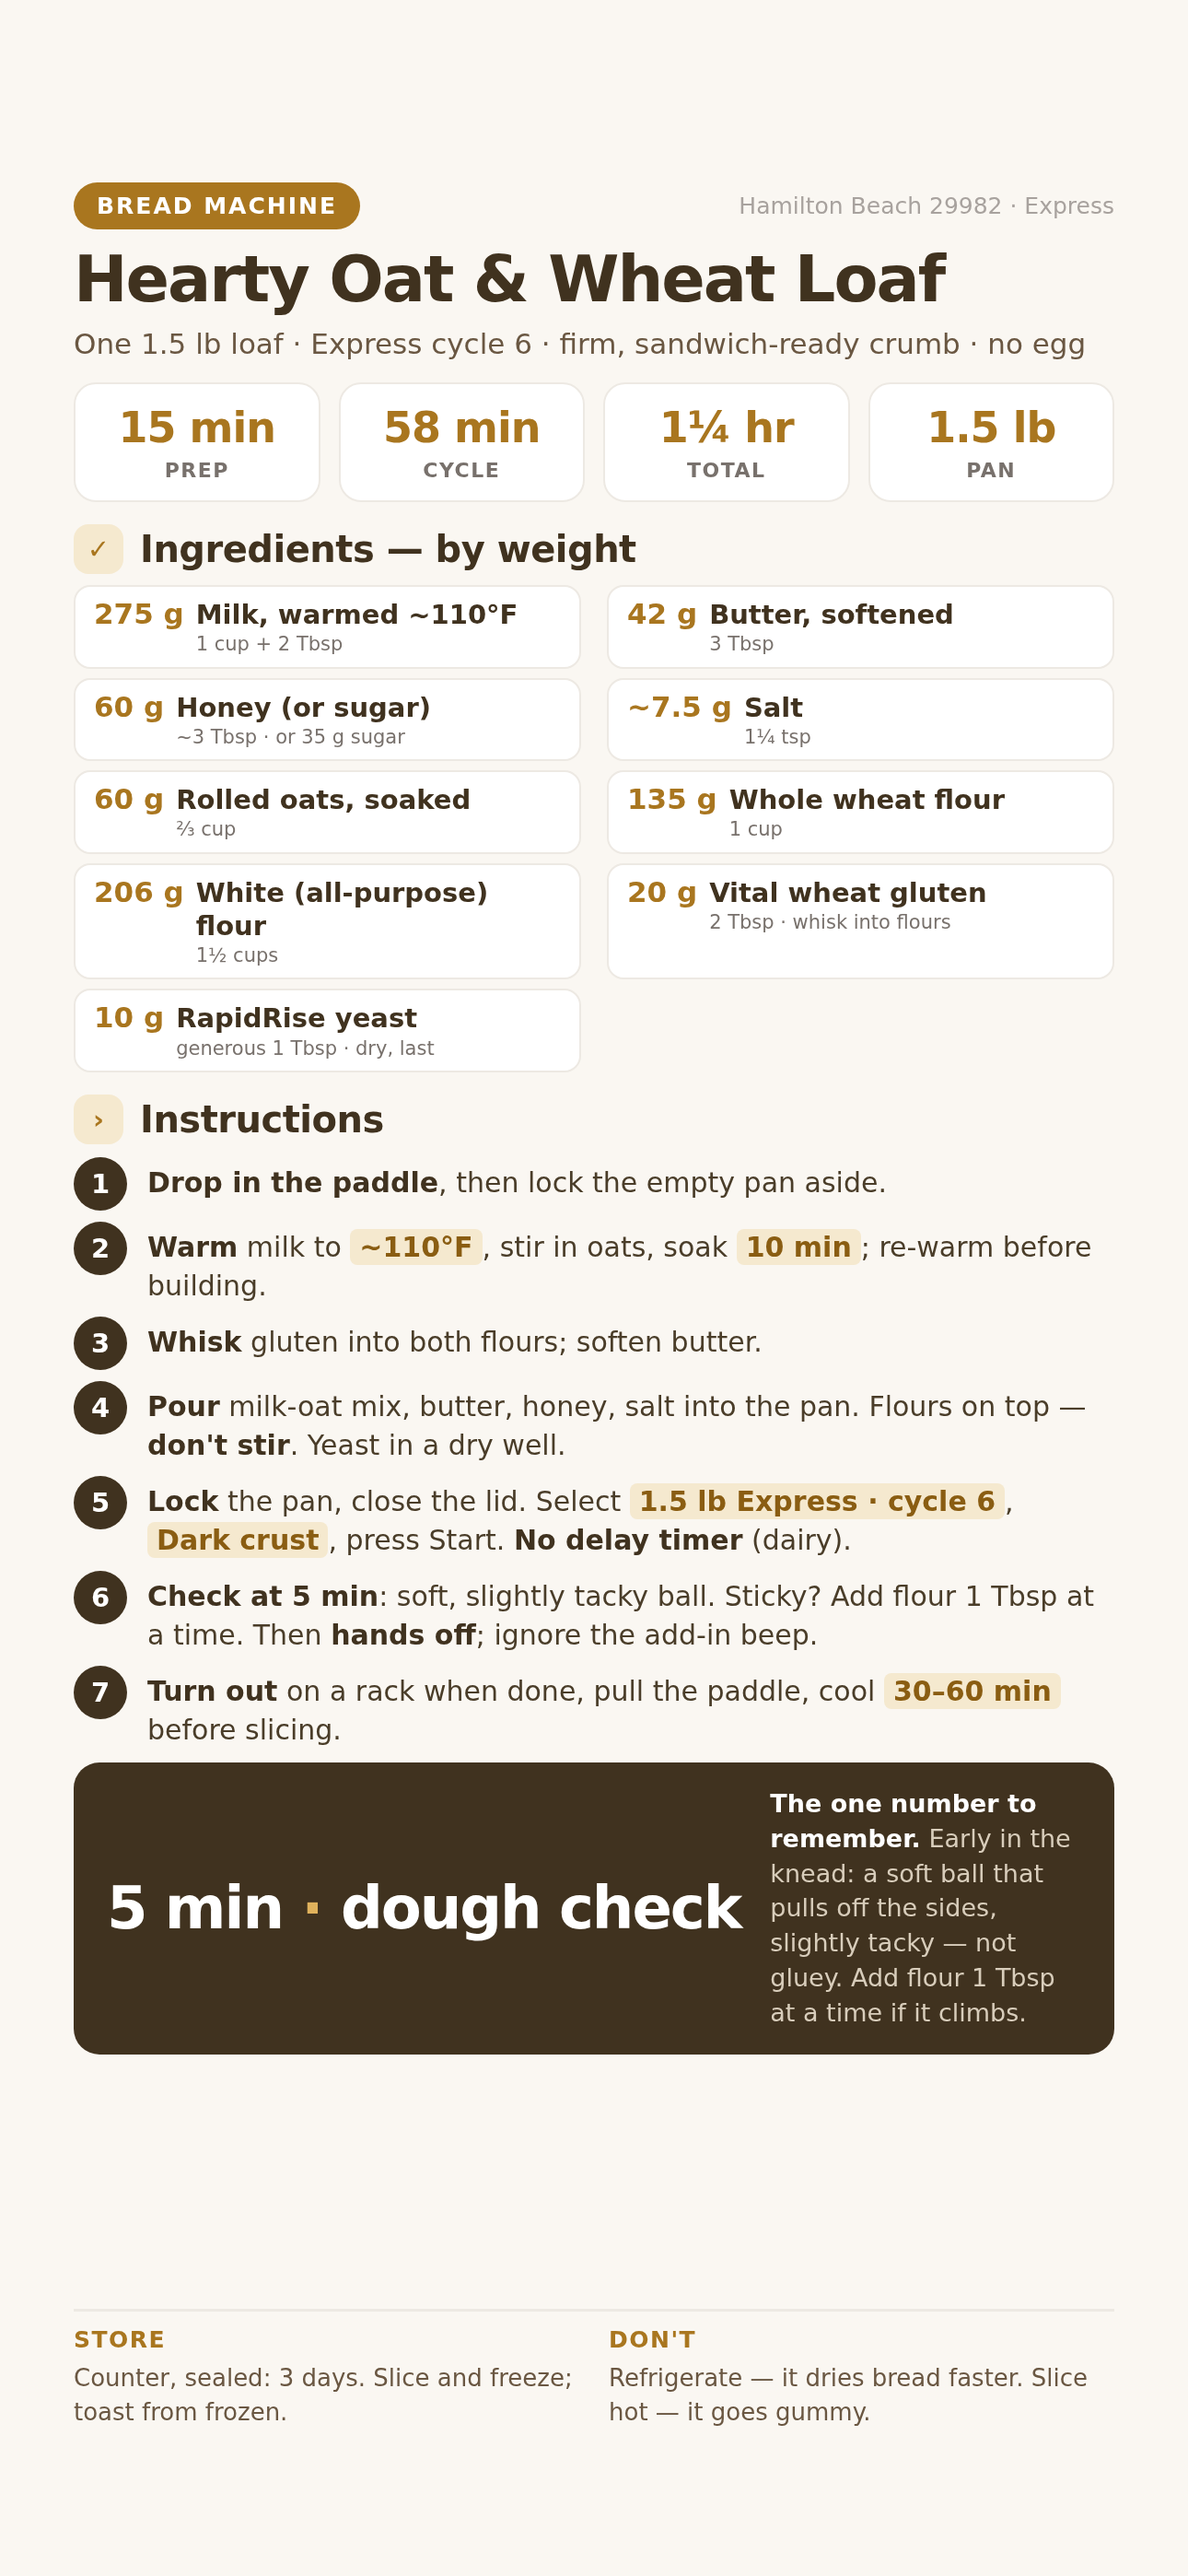
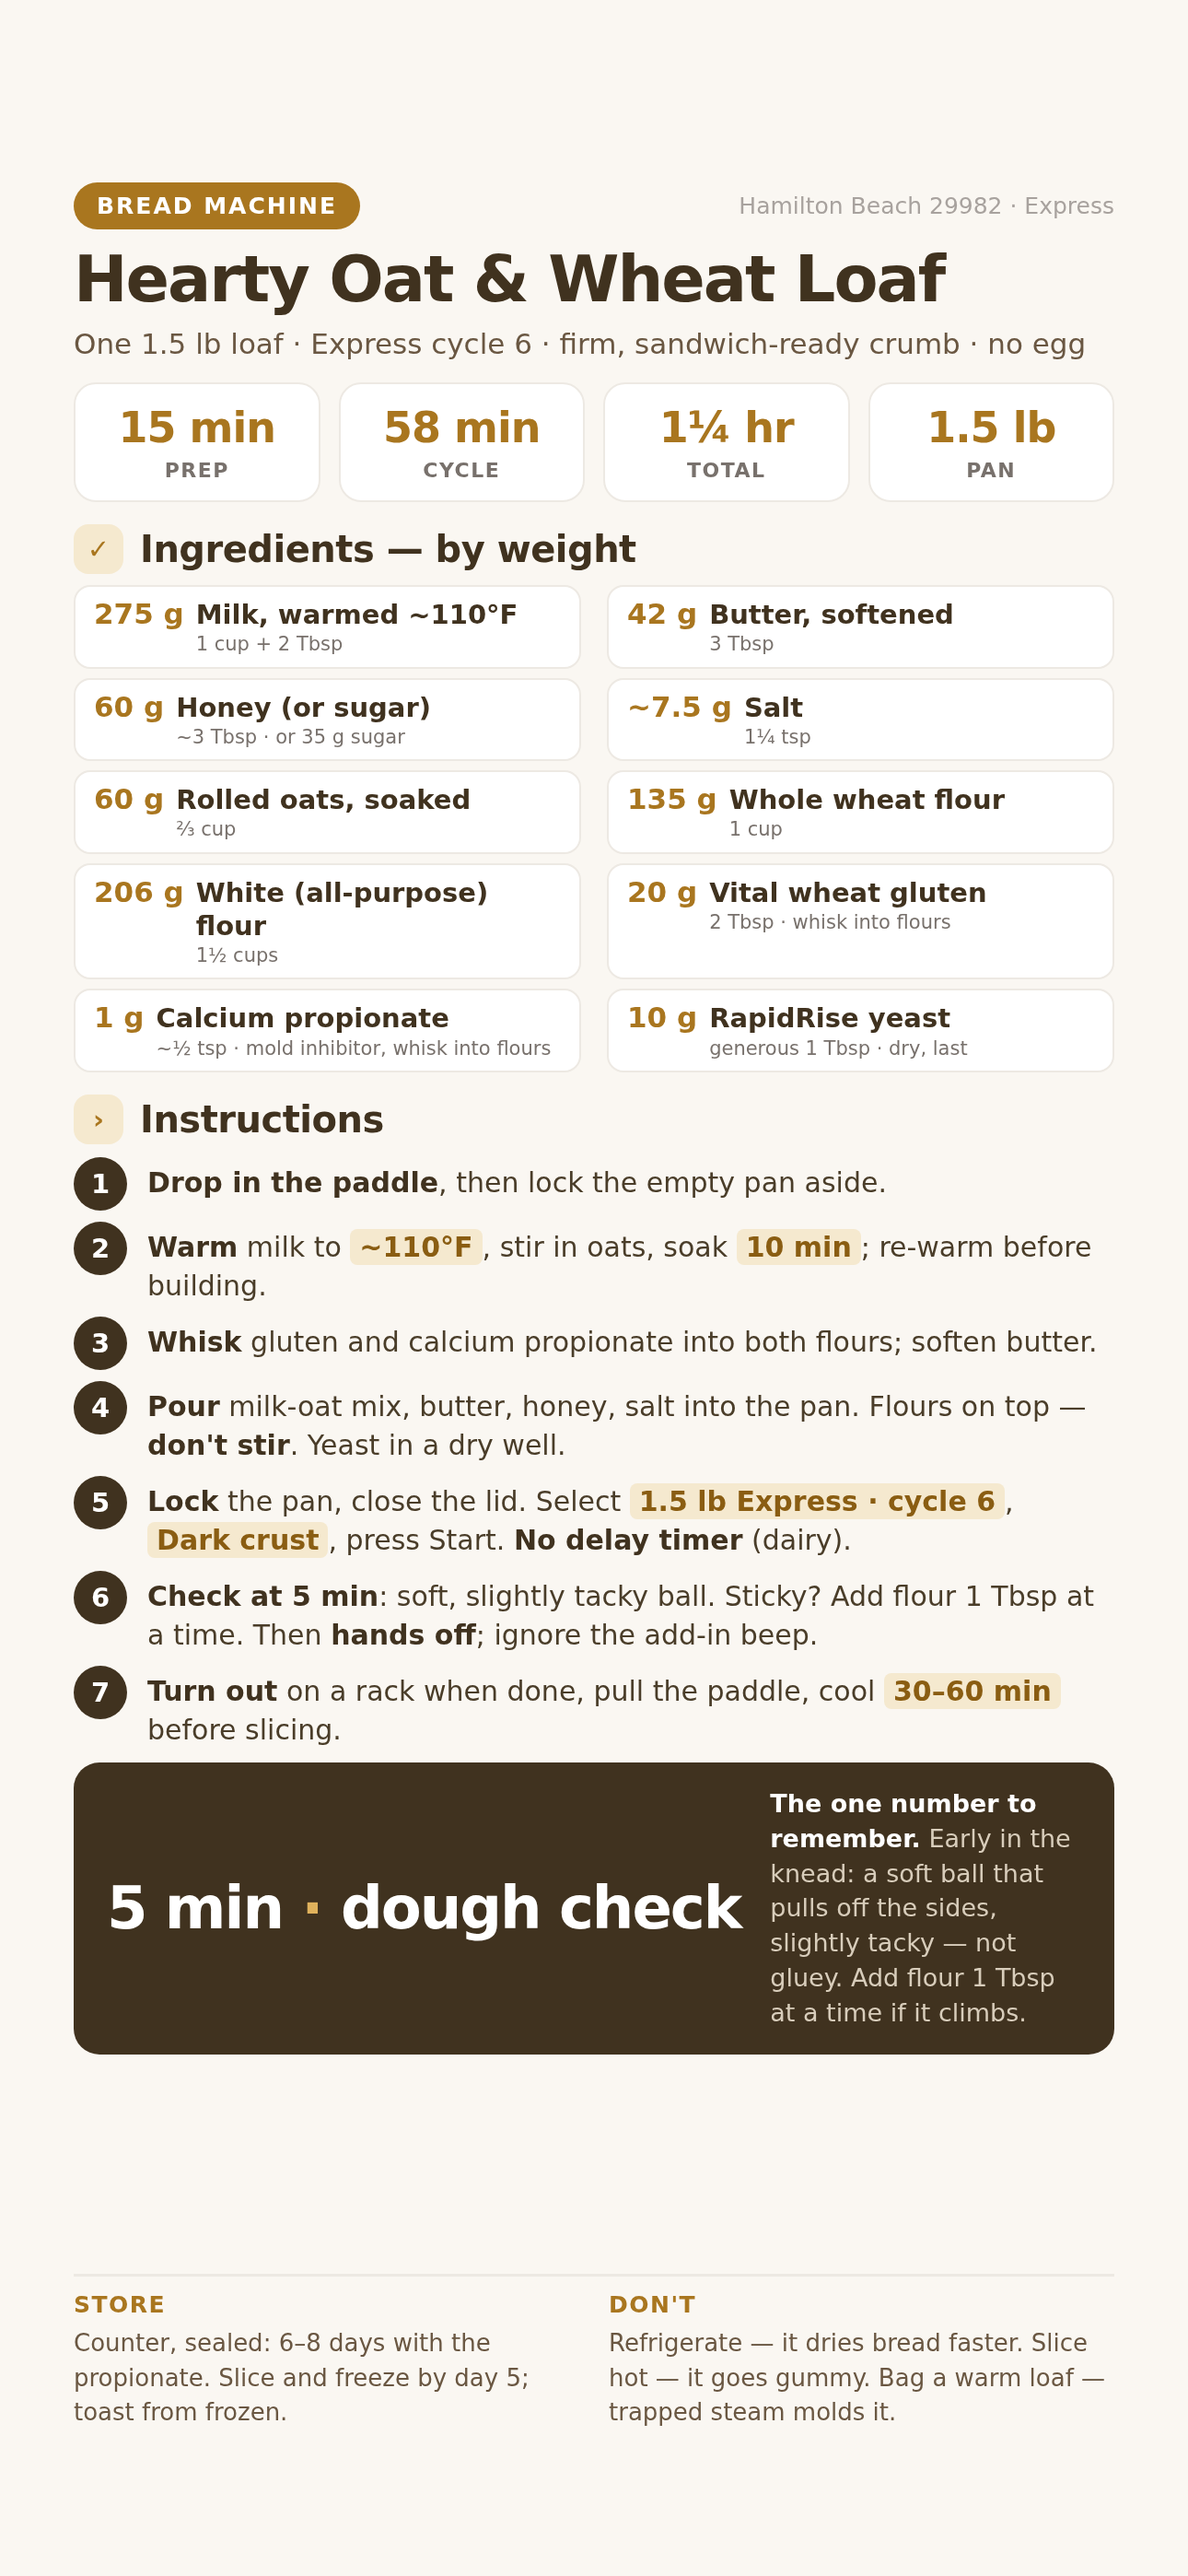
Hearty Oat & Wheat: add 1 g calcium propionate, update storage guidance

diff --git a/cookbook/hearty-oat-wheat-loaf/index.html b/cookbook/hearty-oat-wheat-loaf/index.html
@@ -101,6 +101,7 @@
   ul.list .amt{font-weight:700; white-space:nowrap; font-variant-numeric:tabular-nums; color:var(--accent-d); text-align:right}
   ul.list .amt .gram{display:block; font-weight:800; font-size:1rem; color:var(--second-d)}
   ul.list li.gluten{background:linear-gradient(90deg,rgba(110,140,78,.16),transparent); border-radius:8px; padding:9px 10px; border-bottom:0}
+  ul.list li.prop{background:linear-gradient(90deg,rgba(217,164,65,.14),transparent); border-radius:8px; padding:9px 10px; border-bottom:0; margin-top:4px; border:1px dashed var(--line)}
   ul.list li.yeast{background:linear-gradient(90deg,rgba(217,164,65,.20),transparent); border-radius:8px; padding:9px 10px; border-bottom:0; margin-top:4px; border:1px solid #E6CE97}
   .weightnote{background:#EEF3E6; border:1px solid #D2E0C2; border-radius:10px; padding:11px 13px; font-size:.9rem; color:var(--ink-soft); margin:0 0 14px}
   .weightnote b{color:var(--second-d)}
@@ -241,12 +242,13 @@
   <div class="wrap">
     <div class="about">
       <h2>What's different in this version</h2>
-      <p style="margin:0">This builds on the plain Honeycomb Express loaf with four deliberate changes, tuned so it's firmer and heartier without over-filling the 1.5&nbsp;lb pan.</p>
+      <p style="margin:0">This builds on the plain Honeycomb Express loaf with five deliberate changes, tuned so it's firmer and heartier without over-filling the 1.5&nbsp;lb pan.</p>
       <ul>
         <li><b>Vital wheat gluten (20 g / 2 Tbsp)</b> rebuilds the gluten that oats and whole wheat dilute. It's what makes the loaf firm enough to spread on, and the reason the egg isn't needed.</li>
         <li><b>Rolled oats + whole wheat (60 g + 135 g)</b> add fiber and a nutty, wholesome flavor.</li>
         <li><b>Flour trimmed to 206 g.</b> Oats and gluten add bulk, so the white flour is reduced to keep the loaf from climbing into the lid.</li>
         <li><b>A touch more salt (~7.5 g)</b> firms the gluten, carries the whole-wheat flavor, and gently keeps the rise in check.</li>
+        <li><b>Calcium propionate (1 g)</b> is the mold inhibitor commercial bread uses. With it, the loaf keeps about 6–8 days on the counter in a sealed bag instead of 3–4. It's flavorless at this dose — whisk it in with the flours.</li>
       </ul>
     </div>
   </div>
@@ -269,6 +271,7 @@
           <li><span>Whole wheat flour</span><span class="amt"><span class="gram">135 g</span>1 cup</span></li>
           <li><span>White (all-purpose) flour</span><span class="amt"><span class="gram">206 g</span>1½ cups</span></li>
           <li class="gluten"><span>Vital wheat gluten <em>(whisk into the flours)</em></span><span class="amt"><span class="gram">20 g</span>2 Tbsp</span></li>
+          <li class="prop"><span>Calcium propionate <em>(mold inhibitor — whisk into the flours)</em></span><span class="amt"><span class="gram">1 g</span>~½ tsp</span></li>
           <li class="yeast"><span>RapidRise yeast <em>(dry well, last)</em></span><span class="amt"><span class="gram">10 g</span>generous 1 Tbsp</span></li>
         </ul>
         <div class="variant"><b>Have bread flour?</b> Swap the all-purpose for the same <b>206 g (1½ cups) bread flour</b> and drop the vital wheat gluten to <b>10 g (1 Tbsp)</b>. Bread flour already carries the protein, so it needs less help — same firmness, even safer on the rise.</div>
@@ -281,7 +284,7 @@
           <li>A <b class="key">kitchen scale</b> — recommended for this one</li>
           <li>A microwave-safe cup or small pot to warm and soak the milk + oats</li>
           <li>Dry measuring cups and spoons if not weighing</li>
-          <li>A small whisk or fork to blend the gluten into the flours</li>
+          <li>A small whisk or fork to blend the gluten and calcium propionate into the flours</li>
           <li>A thermometer, to confirm the milk stays warm</li>
           <li>Oven mitts, a wire cooling rack, and a serrated bread knife</li>
         </ul>
@@ -313,9 +316,9 @@
         <p>You want <code>42 g (3 Tbsp)</code> butter soft enough to dent, not melted. 30–60 min on the counter, or 6–8 seconds in the microwave.</p>
       </li>
       <li data-check>
-        <h4>Whisk the gluten into the flours</h4>
-        <p>In a bowl, whisk the <code>135 g</code> whole wheat flour, <code>206 g</code> white flour, and <code>20 g</code> vital wheat gluten together until evenly combined. This spreads the gluten so it doesn't clump.</p>
-        <div class="expect"><b>Why it matters:</b> the gluten is the firmness. Blended evenly through the flour, it builds structure throughout the loaf instead of in pockets.</div>
+        <h4>Whisk the gluten and the calcium propionate into the flours</h4>
+        <p>In a bowl, whisk the <code>135 g</code> whole wheat flour, <code>206 g</code> white flour, <code>20 g</code> vital wheat gluten, and <code>1 g (~½ tsp)</code> <b class="key">calcium propionate</b> together until evenly combined. This spreads the gluten and the preservative so neither clumps.</p>
+        <div class="expect"><b>Why it matters:</b> the gluten is the firmness; the propionate is the shelf life. Blended evenly through the flour, both work throughout the loaf instead of in pockets. At this dose you won't taste it.</div>
       </li>
     </ol>
   </div>
@@ -437,8 +440,8 @@
   <div class="wrap">
     <div class="num-eyebrow"><span class="n">7</span><h2>Keep it fresh</h2></div>
     <div class="panel">
-      <p style="margin:0 0 10px"><span class="lab note">Counter</span>Fully cooled, store in a sealed bag or bread box up to <b class="key">3 days</b>. Don't refrigerate — it dries bread out faster.</p>
-      <p style="margin:0"><span class="lab note">Freezer</span>Slice, seal in a freezer bag, and freeze. Toast slices straight from frozen. The firm crumb freezes and toasts especially well.</p>
+      <p style="margin:0 0 10px"><span class="lab note">Counter</span>Fully cooled, store in a sealed bag up to <b class="key">6–8 days</b> with the calcium propionate in the dough (about 3–4 days without). Don't refrigerate — it dries bread out faster. Bag it only after a full hour of cooling; a warm loaf traps steam and molds faster. If you see condensation in the bag, swap bags and check the crust.</p>
+      <p style="margin:0"><span class="lab note">Freezer</span>Anything you won't finish by day 5: slice, seal in a freezer bag, and freeze. Toast slices straight from frozen. The firm crumb freezes and toasts especially well.</p>
     </div>
   </div>
 </section>
@@ -460,7 +463,7 @@
 <footer>
   <div class="wrap">
     <div class="rule"></div>
-    <p style="max-width:74ch"><b>Based on Lee's Honeycomb Express loaf.</b> The Express-cycle behavior (single short rise, ~1-hour run, instant yeast, warm liquid, smaller and denser loaf) comes from the official Hamilton Beach 29982 Use &amp; Care guide. Amounts were adapted for oats, whole wheat, and vital wheat gluten, then reviewed and reconciled for firmness and pan safety: the white flour was trimmed to keep the dough near the proven ~740 g loaf. Over repeated bakes it was tuned further — butter (42 g), honey (60 g), and oats (60 g) nudged up to soften and enrich the crumb, and the yeast rounded to 10 g. At ~820 g of dough it sits near the upper comfort limit for the 1.5 lb pan: proven across repeated loaves, but about as full as it should get.</p>
+    <p style="max-width:74ch"><b>Based on Lee's Honeycomb Express loaf.</b> The Express-cycle behavior (single short rise, ~1-hour run, instant yeast, warm liquid, smaller and denser loaf) comes from the official Hamilton Beach 29982 Use &amp; Care guide. Amounts were adapted for oats, whole wheat, and vital wheat gluten, then reviewed and reconciled for firmness and pan safety: the white flour was trimmed to keep the dough near the proven ~740 g loaf. Over repeated bakes it was tuned further — butter (42 g), honey (60 g), and oats (60 g) nudged up to soften and enrich the crumb, and the yeast rounded to 10 g. The latest change adds 1 g calcium propionate per loaf — the same mold inhibitor commercial bread uses — which stretches counter life from 3–4 days to 6–8. At ~820 g of dough it sits near the upper comfort limit for the 1.5 lb pan: proven across repeated loaves, but about as full as it should get.</p>
     <p style="max-width:74ch">Gram conversion notes: flour ~137 g/cup, whole wheat 135 g/cup, rolled oats 45 g per ½ cup, honey 21 g/Tbsp, butter 14 g/Tbsp, salt 6 g/tsp, vital wheat gluten ~10 g/Tbsp, one yeast packet 7 g (1 Tbsp ≈ 9 g). Liquid and oat-absorption figures are approximate, so the dough check is the real control.</p>
     <p>Hearty, firm, sandwich-ready. 🌾 Warm the milk, give it the gluten, and let it cool all the way before you slice.</p>
   </div>
